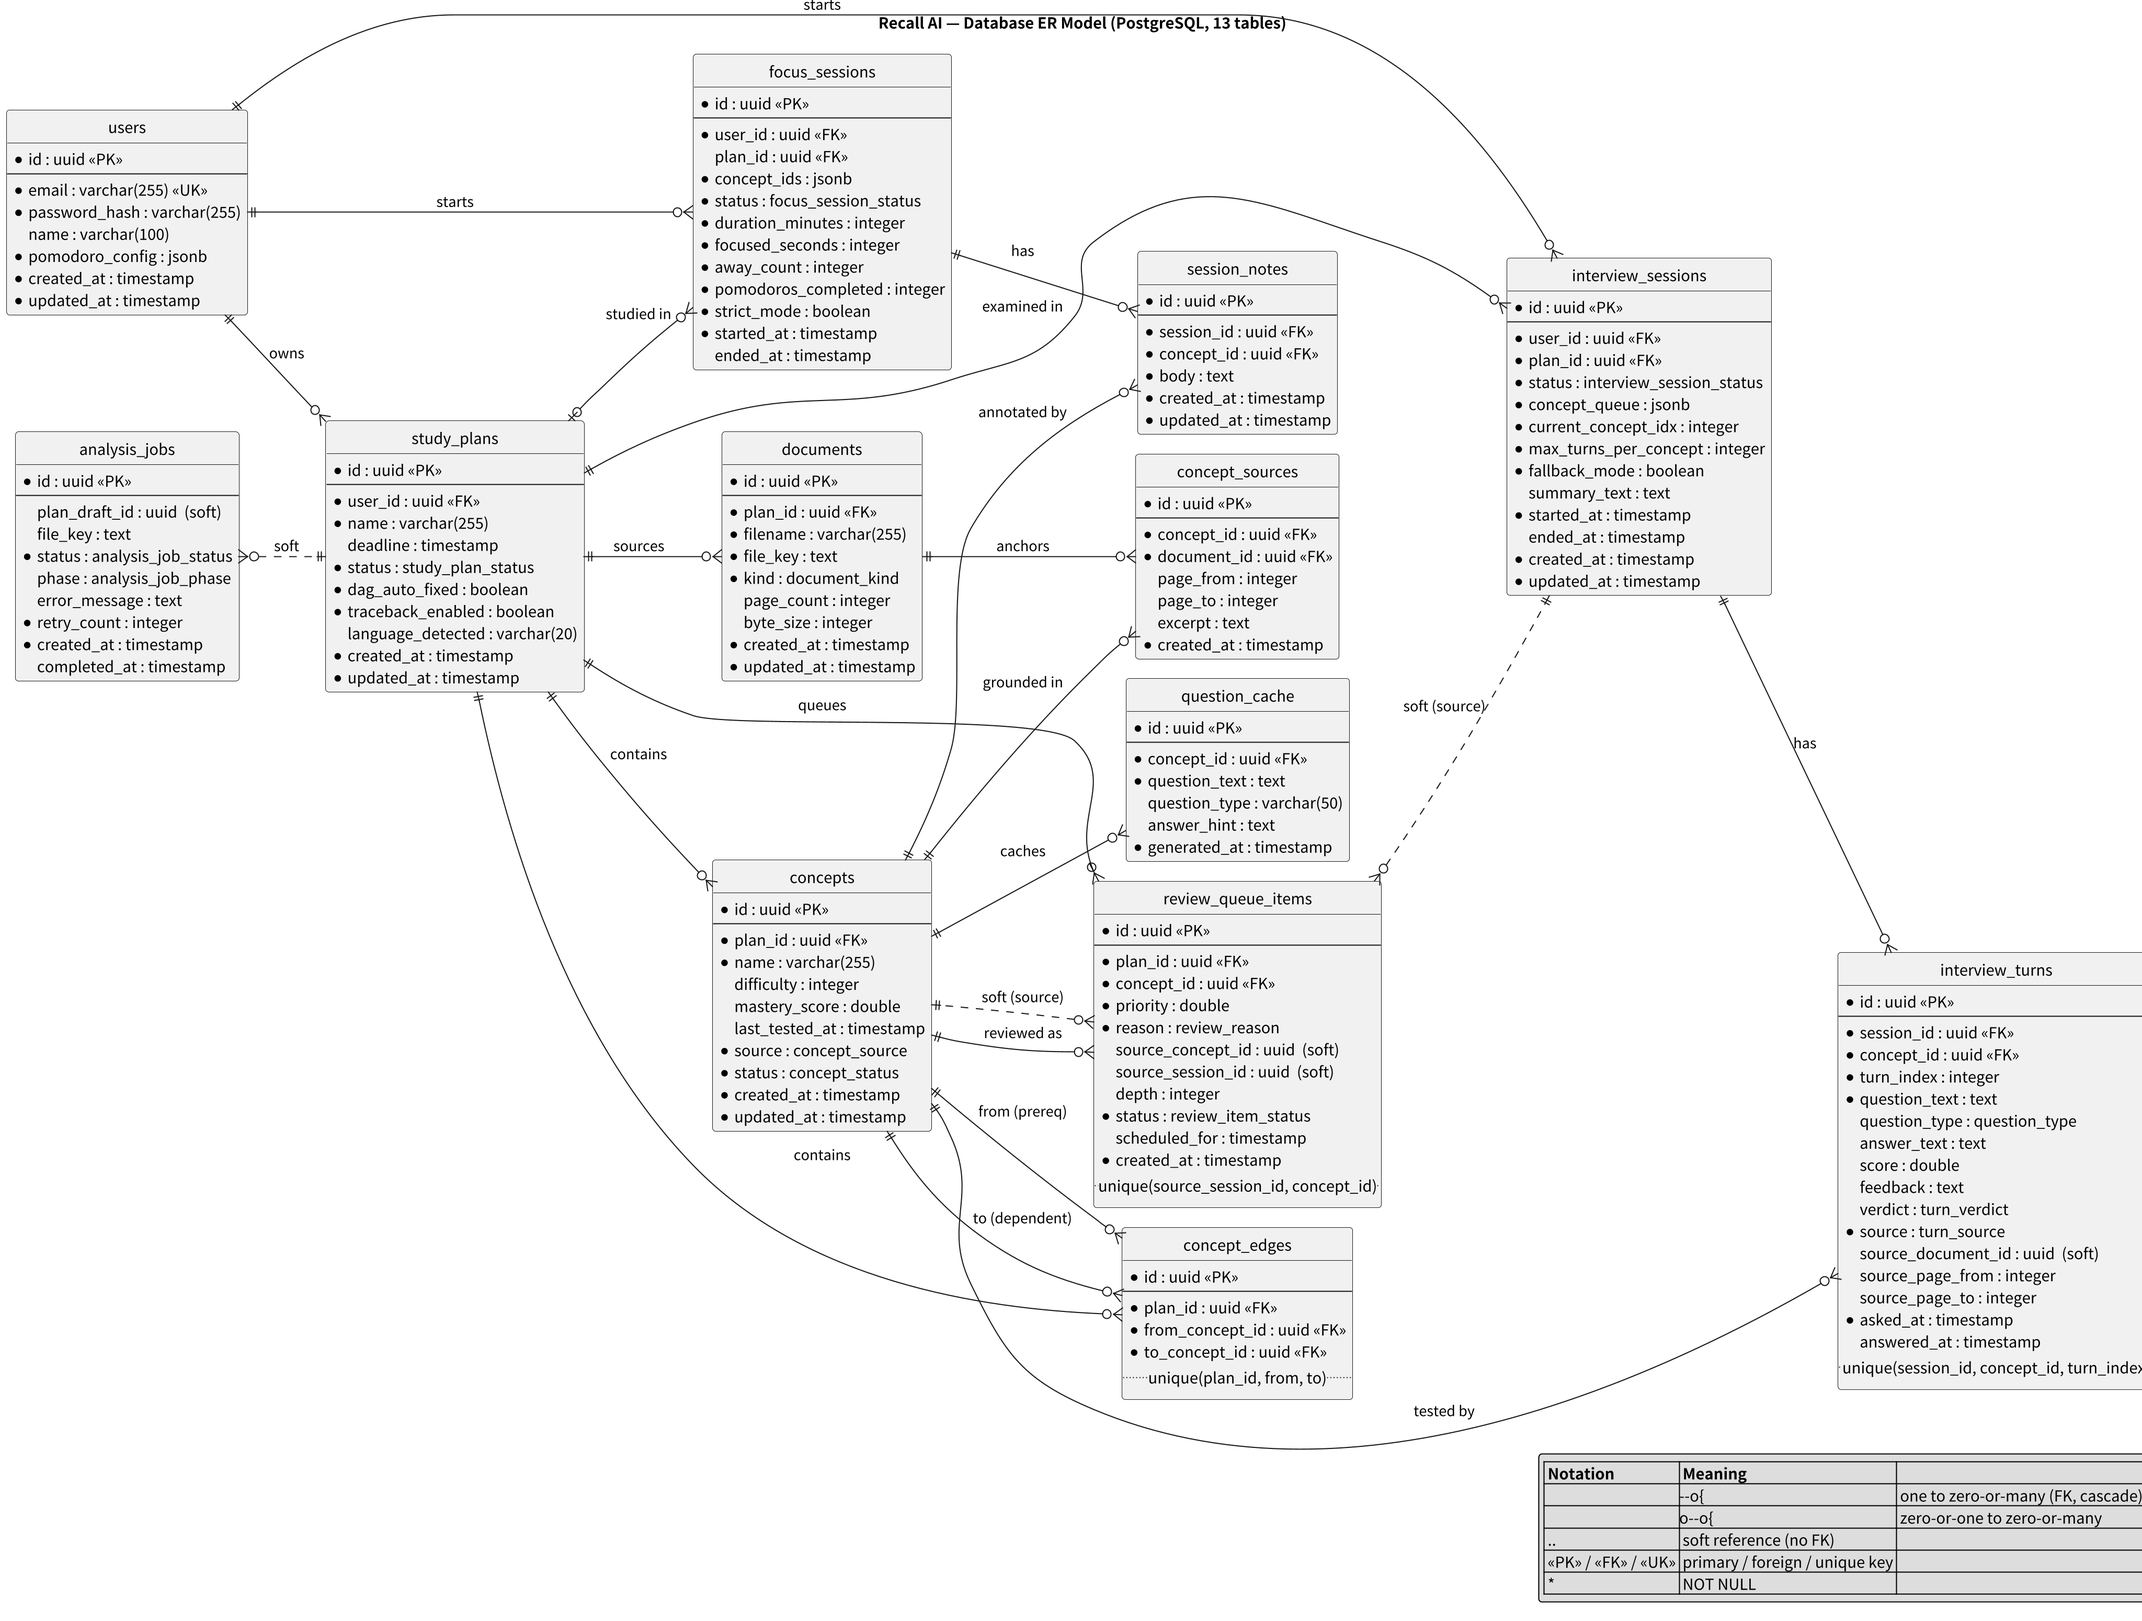
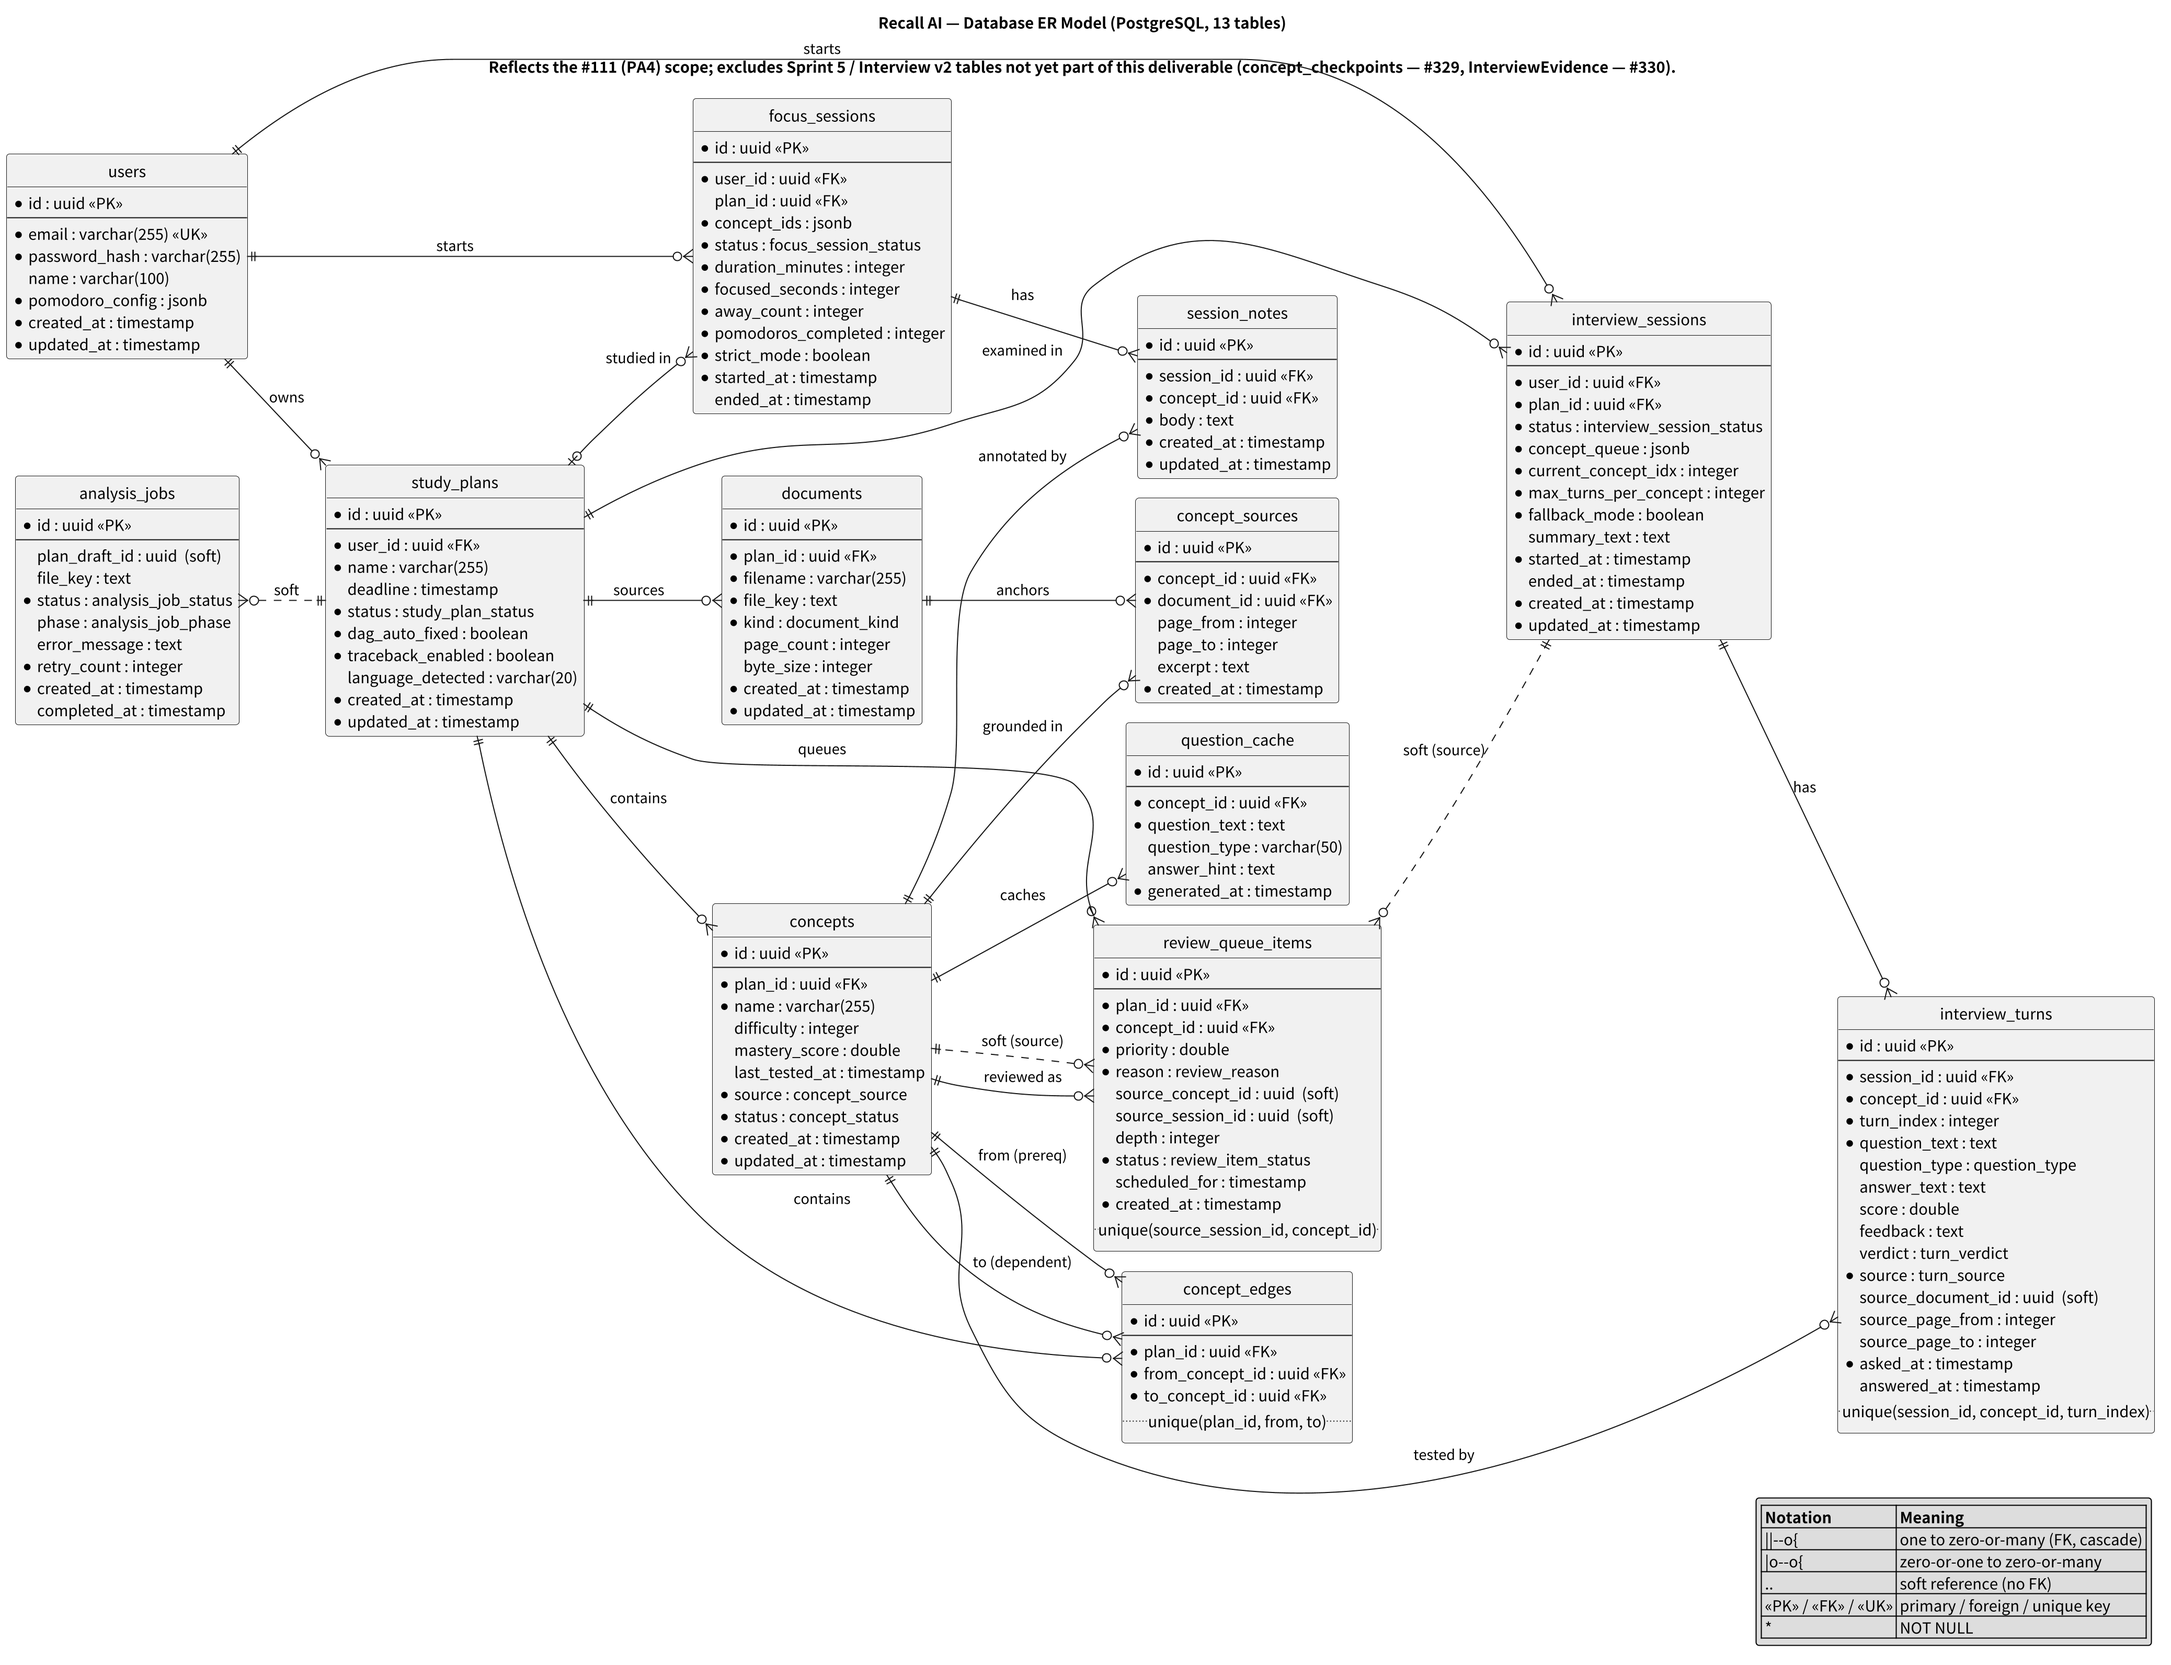
fix(pa4): resolve PR review findings on ER diagram and FS/DB docs
- Re-render ER-01_DatabaseModel.png with PLANTUML_LIMIT_SIZE=16384 so
  "left to right direction" no longer clips the right edge (interview_turns
  border and its unique() constraint were being cut off at the old 4096px
  cap).
- Escape legend pipe characters with &#124; instead of <code> wrapping,
  which PlantUML's creole table parser still split on.
- Note the PA4 scope cut-off (13 tables) against Sprint 5 / Interview v2
  tables not yet included (concept_checkpoints #329, InterviewEvidence
  #330) in both the ER title and database-design.md.
- Fix the "4 of 5 modules" gap-count in dashboard-architecture.md and
  focus-session-architecture.md — actual baseline was 3/5 (AM, SP, AE),
  both FS and DB were missing, not just one.
- Add FS-02 (Pomodoro config) and FS-04 (source document view) to the
  Focus Session overview and traceability table, plus the Web Locks
  single-tab liveness guard (#319) design note — all already implemented
  in features/focus/ but undocumented.

diff --git a/docs/analysis and design/focus-session-architecture.md b/docs/analysis and design/focus-session-architecture.md
@@ -1,9 +1,10 @@
 # Focus Session — Architecture (Component: Focus Session)
 
 > **SAD placement.** Content for **Section 4.8** of the Software Architecture Document
-> (_Logical View → Component: Focus Session_). Closes the PA3-feedback gap that only 4 of the 5
-> use-case modules (AM, SP, AE, and DB — but not FS) had a dedicated §4 subsection. Fulfils
-> issue **#111** (PA4 mục a) and feeds the full SAD assembly (**#84 / I5.1**).
+> (_Logical View → Component: Focus Session_). Closes the PA3-feedback gap that only 3 of the 5
+> use-case modules (AM, SP, and AE — but not FS or DB) had a dedicated §4 subsection; this PR
+> adds both missing ones (FS here, DB in `dashboard-architecture.md`). Fulfils issue **#111**
+> (PA4 mục a) and feeds the full SAD assembly (**#84 / I5.1**).
 >
 > **Source of truth:** the actual code under
 > [`src/server/src/services/focus-session.service.ts`](../../src/server/src/services/focus-session.service.ts),
@@ -17,11 +18,14 @@
 
 ## 4.8.1 Overview
 
-Focus Session covers **FS-01** (Pomodoro study session), **FS-03** (session history), and
-**FS-05** (quick notes during a session). Architecturally it is a thin, self-contained
-CRUD-plus-timer component: the server persists session lifecycle and notes; the Pomodoro clock
-itself is **entirely client-side** (no server ticking) so the study timer keeps running through
-network blips.
+Focus Session covers **FS-01** (Pomodoro study session), **FS-02** (Pomodoro configuration —
+`PomodoroConfigPanel`, `pomodoroConfigApi`, `users.pomodoro_config` via
+`GET/PATCH /me/pomodoro-config`), **FS-03** (session history), **FS-04** (source document view
+during a session — `SessionDocument`, `DocumentExcerpt`, `DocumentFullText`,
+`useSessionDocument`), and **FS-05** (quick notes during a session). Architecturally it is a
+thin, self-contained CRUD-plus-timer component: the server persists session lifecycle and notes;
+the Pomodoro clock itself is **entirely client-side** (no server ticking) so the study timer
+keeps running through network blips.
 
 Two backend services share one ownership gate: `SessionNoteService` calls
 `FocusSessionService.getOwnedFocusSessionOrThrow()` before touching any note, so the "session
@@ -120,13 +124,21 @@ classDiagram
 - **One ownership gate for 5 endpoints.** `getOwnedFocusSessionOrThrow` is exported specifically
   so `session-note.service.ts` reuses it rather than re-implementing the "not found vs not yours"
   check (both collapse to a `404`, never a `403`, to avoid leaking session existence).
+- **Single-tab liveness via Web Locks (#319).** `sessionLock.ts` acquires a Web Locks API lock
+  scoped to the active session id when `RunningSession` mounts, so a session accidentally opened
+  in a second tab is detected client-side instead of silently double-counting `focusedSeconds`;
+  this is a client-only liveness guard and does not change the server's single `create`/`end`
+  contract described above.
 
 ## 4.8.4 Traceability
 
 | Element                            | Requirement                 | Code                                                           |
 | ---------------------------------- | --------------------------- | -------------------------------------------------------------- |
 | Pomodoro session start/end         | FS-01                       | `focus-session.service.ts`                                     |
+| Pomodoro configuration             | FS-02                       | `PomodoroConfigPanel.tsx`, `GET/PATCH /me/pomodoro-config`     |
 | Session history                    | FS-03                       | `listFocusSessions`                                            |
+| Source document during session     | FS-04, #227                 | `SessionDocument.tsx`, `useSessionDocument.ts`                 |
 | Quick notes, auto-save             | FS-05, #228                 | `session-note.service.ts`, `useAutosaveNote.ts`                |
+| Single-tab liveness guard          | #319                        | `sessionLock.ts`                                               |
 | `session_notes` table              | #111 ER redraw              | `schema.prisma` `SessionNote`                                  |
 | `mastery_score` never written here | AI-Examiner boundary (#128) | `focus-session.service.ts` (absence of the field in any write) |

diff --git a/docs/analysis and design/database-design.md b/docs/analysis and design/database-design.md
@@ -25,6 +25,11 @@
 Recall AI persists all state in a single **PostgreSQL** database accessed through the **Prisma
 ORM**. The physical model below is generated 1:1 from the Prisma schema.
 
+> **Scope cut-off.** This model reflects the **#111 (PA4)** deliverable scope — the 13 tables
+> listed below. It does **not** include tables added for Sprint 5 / Interview v2, which was still
+> in development at the time of this revision: `concept_checkpoints` (#329) and the upcoming
+> `InterviewEvidence` (#330 / PR #338). Those land in a later SAD revision, not this one.
+
 | Convention            | Rule                                                                                                                         |
 | --------------------- | ---------------------------------------------------------------------------------------------------------------------------- |
 | Primary keys          | `uuid` (`@db.Uuid`), application-generated (`uuid()`)                                                                        |

diff --git a/docs/analysis and design/dashboard-architecture.md b/docs/analysis and design/dashboard-architecture.md
@@ -2,7 +2,8 @@
 
 > **SAD placement.** Content for **Section 4.9** of the Software Architecture Document
 > (_Logical View → Component: Dashboard & Visualization_). Closes the PA3-feedback gap that only
-> 4 of the 5 use-case modules (AM, SP, AE, and FS — but not DB) had a dedicated §4 subsection.
+> 3 of the 5 use-case modules (AM, SP, and AE — but not FS or DB) had a dedicated §4 subsection;
+> this PR adds both missing ones (DB here, FS in `focus-session-architecture.md`).
 > Fulfils issue **#111** (PA4 mục a) and feeds the full SAD assembly (**#84 / I5.1**).
 >
 > **Source of truth:** the actual code under
